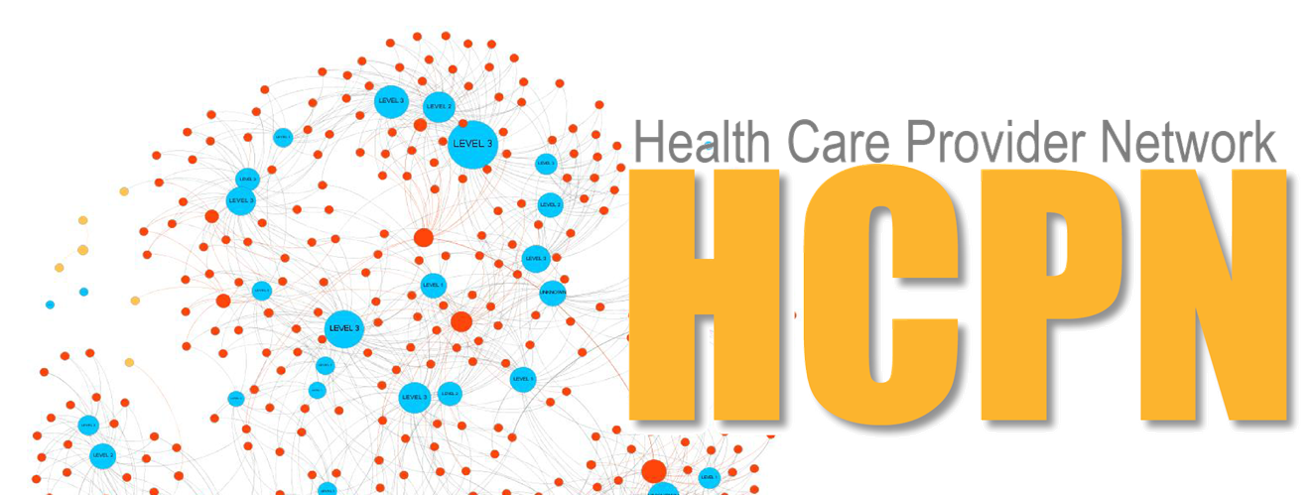
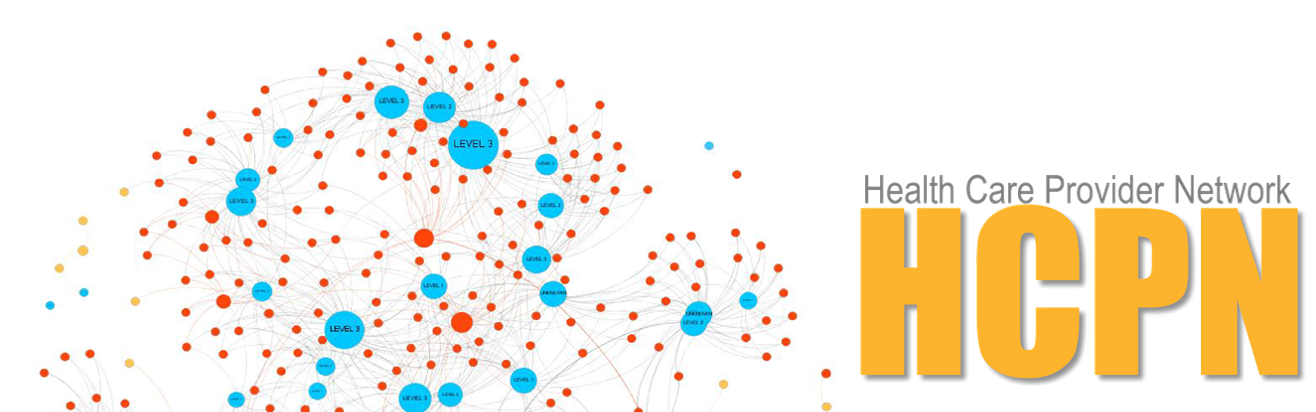
Changed image and edited NS html

diff --git a/projects/NS-project.html b/projects/NS-project.html
@@ -9,6 +9,7 @@
 		<title>Elijah Justin Medina | Portfolio</title>
 		<meta charset="utf-8" />
 		<meta name="viewport" content="width=device-width, initial-scale=1, user-scalable=no" />
+		<link rel="icon" href="../images/icon.svg">
 		<link rel="stylesheet" href="../assets/css/main.css" />
 	</head>
 	<body class="is-preload">
@@ -42,6 +43,11 @@
 
 									<span class="image main"><img src="ns-project-images/network-cropped.png" alt="" /></span>
 
+			
+									<h2>Motivation</h2>
+
+									<p>With the Universal Health Care Law, the healthcare system of the Philippines is expected to experience an upsurge in demand, possibly even to the point of overloading of the system. To create any preventive measures or policies, it is imperative to understand the capabilities of our healthcare system, first. In this study, we analyzed the referral system between different healthcare facilities in the Philippines. </p>
+									<hr class="major">
 									<h2>Summary</h2>
 
 									<p>
@@ -52,9 +58,12 @@
 										<b>Conclusions:</b> Regional variations exist in the primary healthcare facility referral mechanisms in the Philippines. <br>
 										<b>Recommendations:</b> The Department of Health can use the results of this study in conjunction with the demand for healthcare to identify priority areas for its Health Facility Enhancement Program.
 									</p>
+
 									<ul class="actions">
-										<li><a href="https://github.com/ejmmedina/NS-project/blob/master/hcpn-network-NS.ipynb" class="button">View code in GitHub</a></li>
+										<li><a href="https://github.com/ejmmedina/NS-project/blob/master/hcpn-network-NS.md" class="button">View code in GitHub</a></li>
 									</ul>
+
+									<p><i>If you have any questions regarding the analysis or wish to have a copy of the report, please contact me via <a href="mailto: elijahjustinmedina@gmail.com">e-mail</a> or <a href="https://www.linkedin.com/in/elijah-justin-medina/">LinkedIn</a></i></p>
 									<!-- <p>Donec eget ex magna. Interdum et malesuada fames ac ante ipsum primis in faucibus. Pellentesque venenatis dolor imperdiet dolor mattis sagittis. Praesent rutrum sem diam, vitae egestas enim auctor sit amet. Pellentesque leo mauris, consectetur id ipsum sit amet, fergiat. Pellentesque in mi eu massa lacinia malesuada et a elit. Donec urna ex, lacinia in purus ac, pretium pulvinar mauris. Curabitur sapien risus, commodo eget turpis at, elementum convallis elit. Pellentesque enim turpis, hendrerit.</p>
 									<p>Lorem ipsum dolor sit amet, consectetur adipiscing elit. Duis dapibus rutrum facilisis. Class aptent taciti sociosqu ad litora torquent per conubia nostra, per inceptos himenaeos. Etiam tristique libero eu nibh porttitor fermentum. Nullam venenatis erat id vehicula viverra. Nunc ultrices eros ut ultricies condimentum. Mauris risus lacus, blandit sit amet venenatis non, bibendum vitae dolor. Nunc lorem mauris, fringilla in aliquam at, euismod in lectus. Pellentesque habitant morbi tristique senectus et netus et malesuada fames ac turpis egestas. In non lorem sit amet elit placerat maximus. Pellentesque aliquam maximus risus, vel sed vehicula.</p>
 									<p>Interdum et malesuada fames ac ante ipsum primis in faucibus. Pellentesque venenatis dolor imperdiet dolor mattis sagittis. Praesent rutrum sem diam, vitae egestas enim auctor sit amet. Pellentesque leo mauris, consectetur id ipsum sit amet, fersapien risus, commodo eget turpis at, elementum convallis elit. Pellentesque enim turpis, hendrerit tristique lorem ipsum dolor.</p>

diff --git a/index.html b/index.html
@@ -9,6 +9,7 @@
 		<title>Elijah Justin Medina | Portfolio</title>
 		<meta charset="utf-8" />
 		<meta name="viewport" content="width=device-width, initial-scale=1, user-scalable=no" />
+		<link rel="icon" href="images/icon.svg">
 		<link rel="stylesheet" href="assets/css/main.css" />
 	</head>
 	<body class="is-preload">
@@ -97,9 +98,12 @@
 											<a href="projects/NS-project.html" class="image"><img src="projects/ns-project-images/network.png" alt=""/></a>
 											<h3>Network Analysis of the Primary Healthcare Facility Referral System in the Philippines</h3>
 											<h5>By: Elijah Justin Medina & Jomilynn Rebanal</h5>
-											<p align='justify'>Using geographic coordinates of health care providers, we create a network of referrals among health facilities and analyze the characteristics of the Philippines' healthcare system. Looking at the network metrics of the facilities at a regional level, we quantify the differences of the respective healthcare system of the different regions. Furthermore, we simulate conditions that may cause disruptions to the network.</p>
+											<p>
+												In this project, we performed network analysis and simulations on the healthcare provider network in the Philippines.
+												The aim is to analyze the referral system among health units in the Philippines in order to identify the characteristics and consequently, the robustness of this system. 
+											</p>	
 											<ul class="actions">
-												<li><a href="projects/NS-project.html" class="button">Read more</a></li>
+												<li><a href="projects/NS-project.html" class="button">Read</a></li>
 											</ul>
 										</article>
 										<!-- <article>

diff --git a/assets/css/main.css b/assets/css/main.css
@@ -128,7 +128,12 @@ em, i {
   font-style: italic; }
 
 p {
+  text-align: justify;
   margin: 0 0 2em 0; }
+
+p.generic {
+  font-size: 12pt;
+}
 
 h1, h2, h3, h4, h5, h6 {
   color: #3d4449;
@@ -147,6 +152,7 @@ h1 {
   line-height: 1.3; }
 
 h1.generic {
+  font-size: 2em;
   margin: 0 0 0.1em 0;
 }
 
@@ -168,7 +174,7 @@ h5 {
 
 
 h5.generic {
-  font-size: 1.2em;
+  font-size: 1.1em;
 }
 h6 {
   font-size: 0.7em; }
